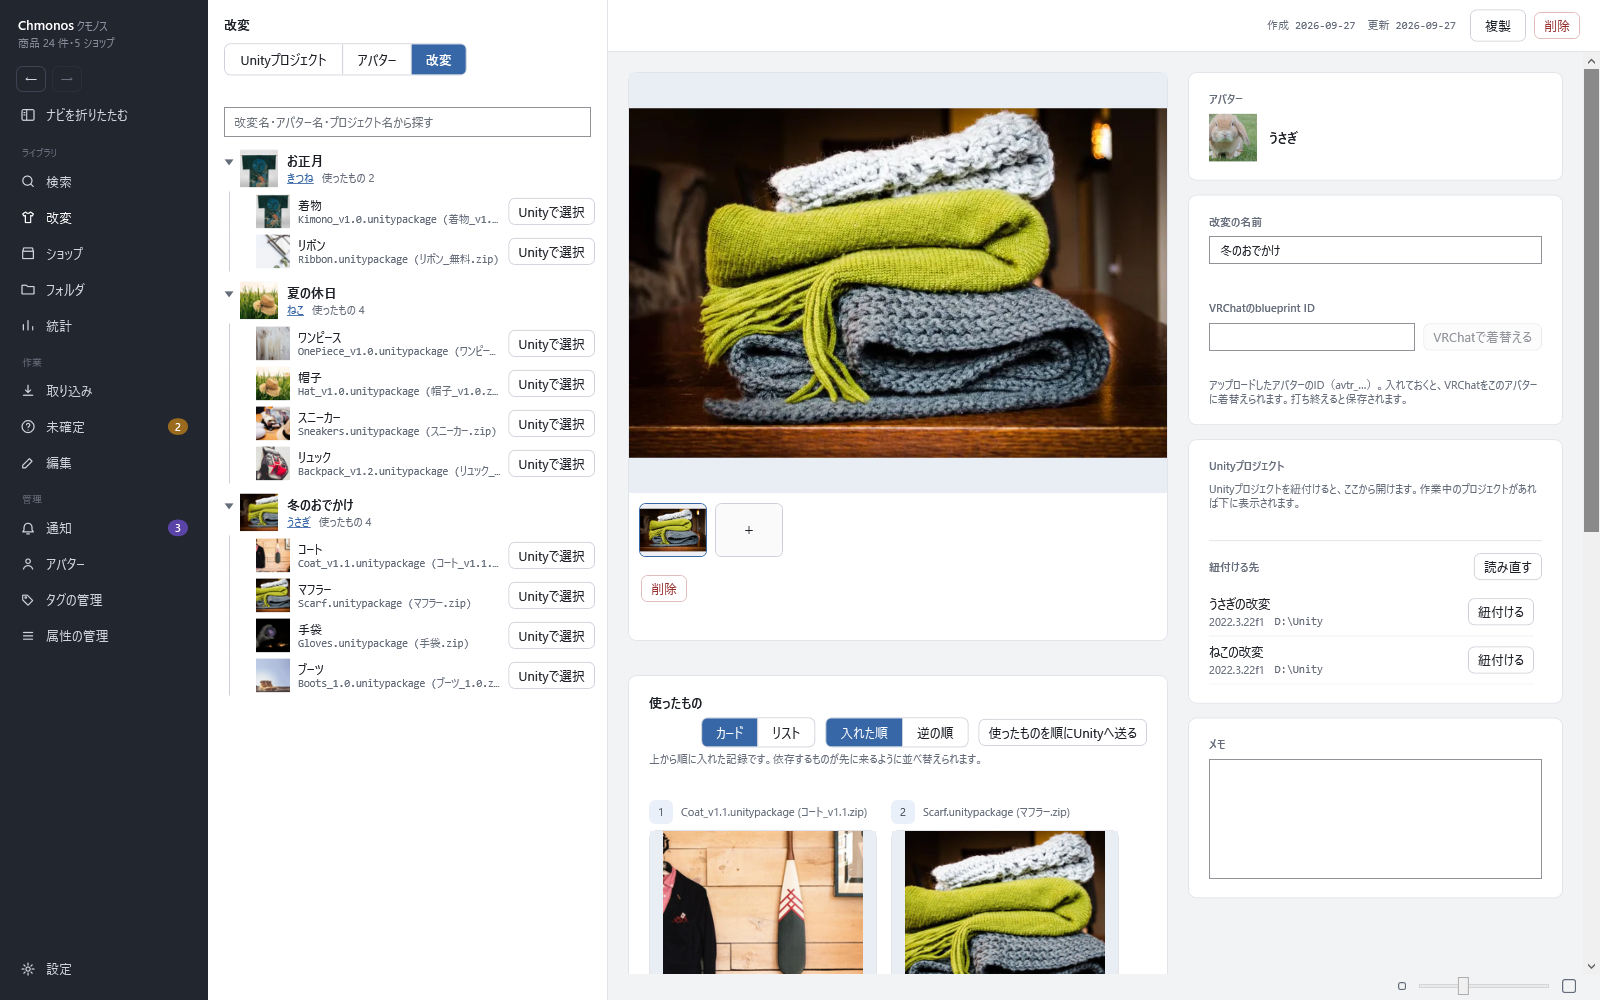
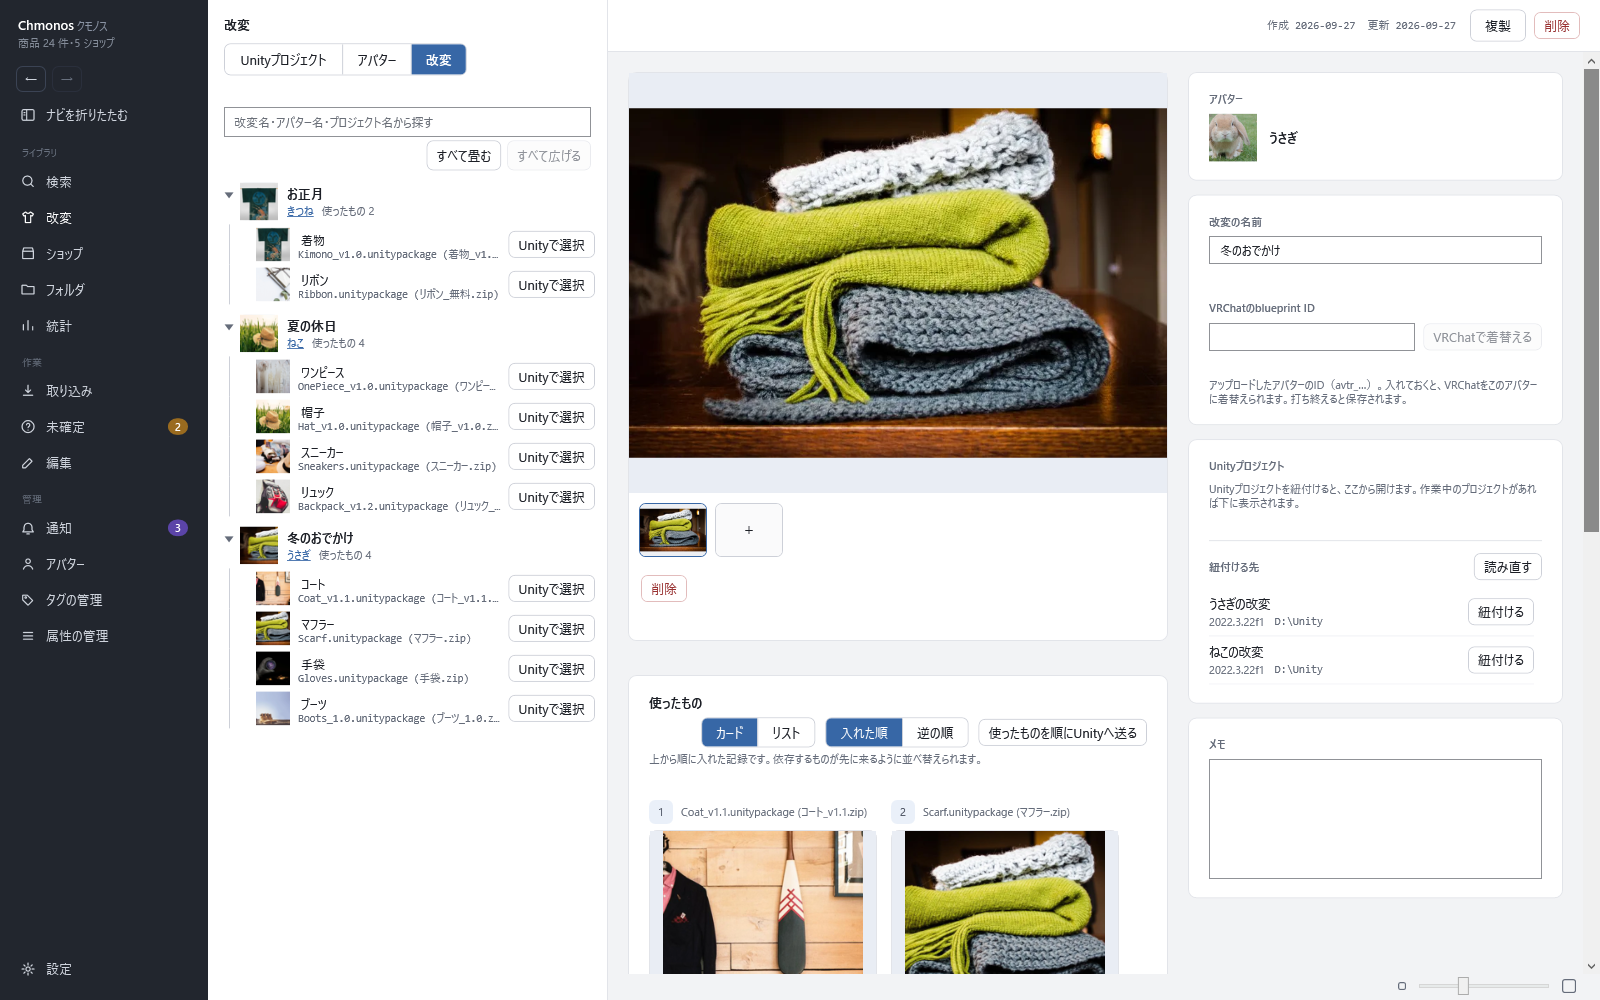
マニュアルを v1.2.0 の画面に合わせる（公開した後の点検）
検索の条件の表に古い名前「改変」が残り、画面の配置の表にスイッチ「開いているUnity」が無く、
検索と改変の画像が v1.2.0 より前のままだった。字を選んでコピーできることもマニュアルに無かった。
どれも文書と画像だけで exe の動きは変わらないので、manual-v1.2.0 の印もこの commit へ動かす。

Changed region(s): [[0.125, 0.155, 0.375, 0.744]]

diff --git a/manual/10-search.md b/manual/10-search.md
@@ -10,7 +10,7 @@
 
 | 場所 | あるもの |
 |---|---|
-| 上 | 検索欄・「対象」・「オプション」 |
+| 上 | 検索欄・「対象」・「オプション」・スイッチ「開いているUnity」 |
 | 左 | 絞り込み（条件の一覧） |
 | 一覧の上 | 件数・表示順・「カード」「リスト」 |
 | 中央 | 商品のカードかリスト |
@@ -123,7 +123,7 @@
 | 所持 | 手元にファイルがあるか |
 | ギフト | もらった物か、自分で買った物か |
 | BOOTHに無い商品 | 「BOOTHに無い商品として登録」した商品か |
-| 改変 | 改変に使った商品。アバターだけを選ぶと、そのアバターのどれかの改変に使った商品 |
+| アバター・改変 | 改変に使った商品。アバターだけを選ぶと、そのアバターのどれかの改変に使った商品 |
 | 最近 | Unity へ送った・商品ページを開いた・取り込んだ日からの日数 |
 | Unityプロジェクト | そのプロジェクトに入っている商品。「今開いているプロジェクト」が既定で入っています。画像のファイルのまま入れた物は、中身が同じ画像だけを出し、「名前が同じファイルも含める」で足せます。開いているプロジェクトは名前のボタンで並び、押すと条件に追加できます。検索欄の右のスイッチ「開いているUnity」をオンにすると、開いている Unity のプロジェクトに入っている商品だけをすぐ表示できます（Unity が開いていないときは押せません）。この条件を付けたまま起動すると、前回の結果をすぐ表示し、調べ直して最新にします（v1.2.0 から） |
 | 改変プロジェクト | そのプロジェクトに紐付けた改変に使った商品。「条件を追加」の「改変登録」の下にあります（v1.2.0 から） |

diff --git a/docs/dev/signing.md b/docs/dev/signing.md
@@ -31,7 +31,7 @@
 - workflow は tag で組むと、同じコミットに印 `manual-v<版>` を付ける。Releases の本文と zip の README（`{version}` を埋める）はここを指す。BOOTH の商品ページと GitHub の README は master のまま
 - 公開した後に、その版の動きのままマニュアルの言い方だけを直したときは、印を動かす：`git tag -f manual-v1.1.0 <直したコミット>` → `git push -f origin manual-v1.1.0`（まだ配っていない動きを含むコミットへは動かさない）
 - v1.1.0 は、公開した後の言い方の直し（`f9b4e61d`）を含め、まだ配っていない動き（`a9bf6c47` の引越しの件）を含まない `f9b4e61d` に `manual-v1.1.0` を付けた。v1.0.0 は tag `v1.0.0` のまま
-- v1.2.0 は、公開の前に言い方だけを直した `e83d9e4b`（「手で入れた画像」→「画像のファイルのまま入れた物」）に `manual-v1.2.0` を付け直した（tag `v1.2.0` は `fa647267` のまま。間は文書だけ）
+- v1.2.0 は、公開の前に言い方だけを直した `e83d9e4b`（「手で入れた画像」→「画像のファイルのまま入れた物」）に `manual-v1.2.0` を付け直し、公開した後の点検（2026-11-06：条件の名前・スイッチ・画像2枚・字のコピー）でもう一度動かした（tag `v1.2.0` は `fa647267` のまま。間は文書と画像だけ）
 
 **同じ tag で組み直さない**（2026-10-08・点検24）。workflow は、その tag の Releases が既にあれば組む前に止まる。配り直すときは Releases にある zip を使う。
 SDK の版は `global.json` で固め、workflow もそれを入れて組む（`10.0.x` のままだと、その日の最新の SDK で組まれ、同じソースでも別の exe になった）。

diff --git a/docs/booth/release-notes-v1.2.0.md b/docs/booth/release-notes-v1.2.0.md
@@ -121,4 +121,4 @@ v1.1.0 から移るときは、新しいフォルダに展開した `Chmonos.exe
 
 書かなかったこと：`ImageSharp` は 3.1.12 のまま（ユーザ判断 2026-11-01。`docs/plan.md`）。知らせ6件は今の作りでは通らず、使う人の操作も変わらない。試験・点検の直しの細部・文書の整理。
 
-マニュアルの画像は描き直していない：変わった所が写っている画像が無かった（`showcase-filters`・`showcase-modification`・`showcase-item` を描いて見た）。
+マニュアルの画像：公開した後の点検（2026-11-06）で、`search.png`（スイッチ「開いているUnity」）と `modification.png`（「すべて畳む」「すべて広げる」）を `showcase-search`・`showcase-modification` で描き直した。`manual-v1.2.0` の印も動かした。
